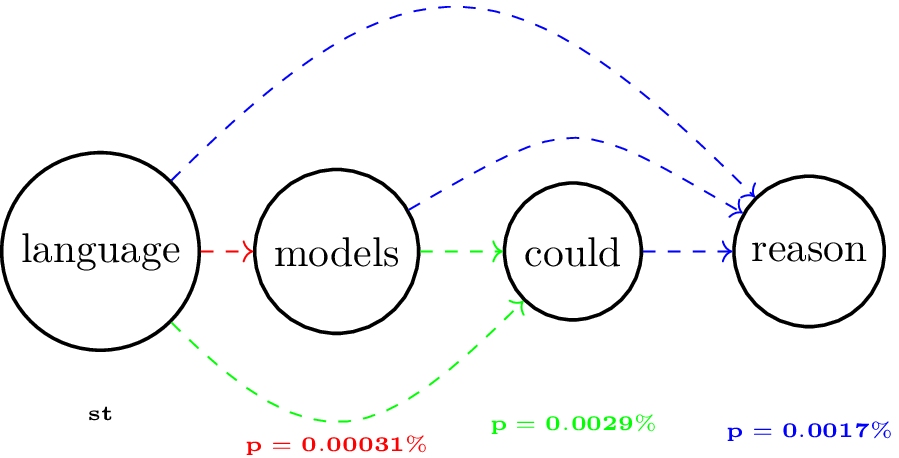
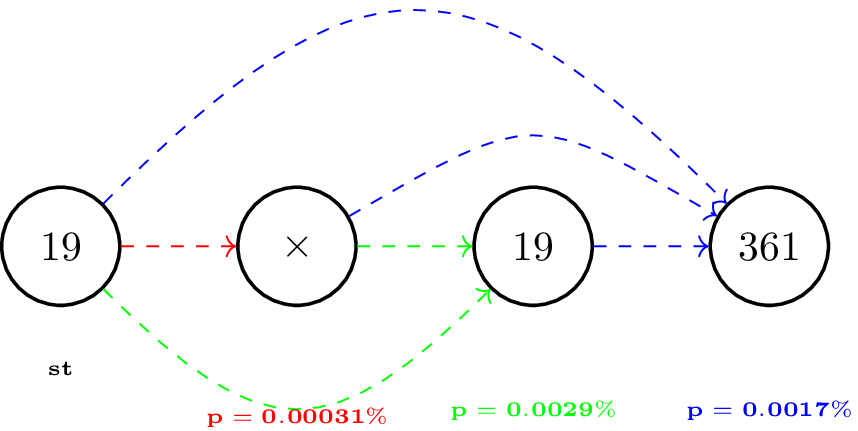
[add] QA in ds_training
[update] ds training

diff --git a/mode/templates/title_deepseek_training.html b/mode/templates/title_deepseek_training.html
@@ -1,0 +1,18 @@
+<!DOCTYPE html>
+<html>
+	<head>
+	  <title>HTML Elements Reference</title>
+	</head>
+	<body>
+	  <h1>Deepseek与大语言模型</h1>
+	  <h2>概况与应用</h2>
+	  <div id="title_image">
+		<img src="./img/deepseek/shoggoth.png" alt="LLM" width="400">
+	  </div>
+	  <h4>上海研究院系统部人工智能组</h4>
+	  <h4>2025年02月07日</h4>
+	  <div id="logo">
+		<img src="./img/siasun_blue_logo.png" alt="新松机器人上海研究院" width="200">
+	  </div>
+	</body>
+</html>

diff --git a/latex/sands/autoregressive.tex b/latex/sands/autoregressive.tex
@@ -8,10 +8,10 @@
     every node/.style={circle, draw=black, thick, minimum size=1cm},
     arrow/.style={thick, -{Latex[length=3mm]}}]
 
-  \node (w1) {language};
-  \node (w2) [right of=w1] {models};
-  \node (w3) [right of=w2] {could};
-  \node (w4) [right of=w3] {reason};
+  \node (w1) {19};
+  \node (w2) [right of=w1] {$\times$};
+  \node (w3) [right of=w2] {19};
+  \node (w4) [right of=w3] {361};
 
   \draw[->] (w1) edge[red,dashed] (w2);
   \draw[->] (w2) edge[green,dashed] (w3);
